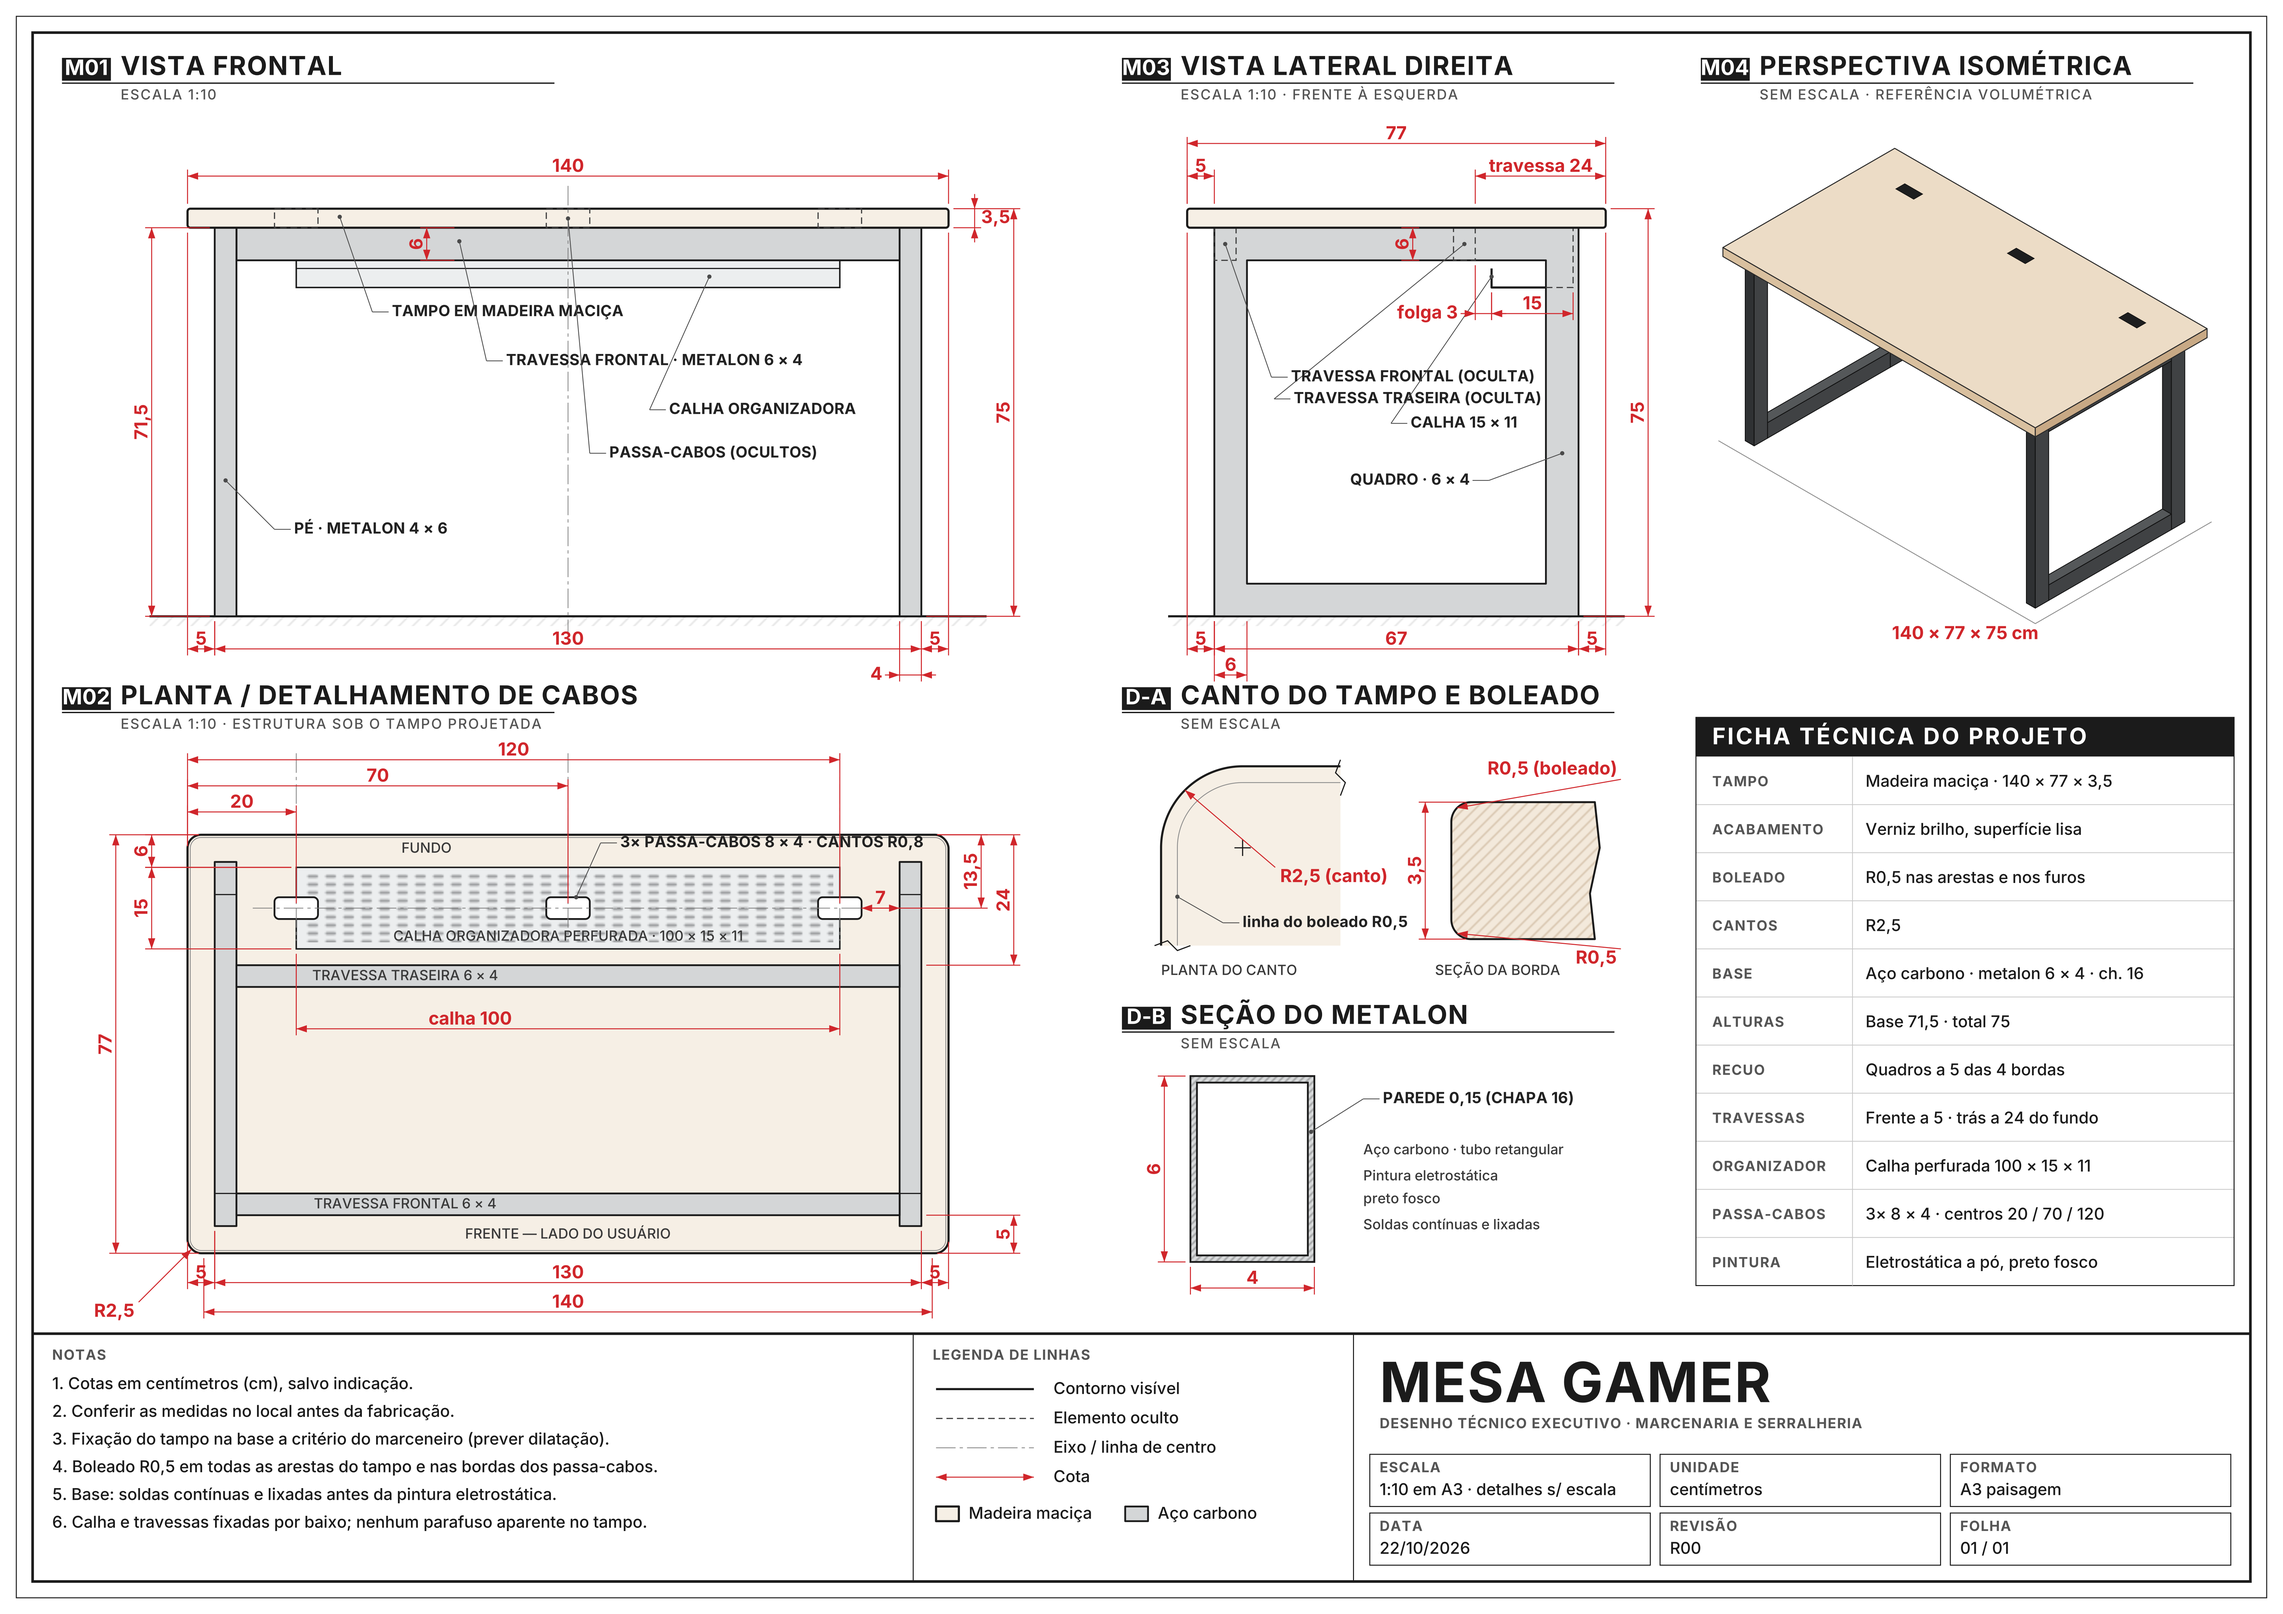
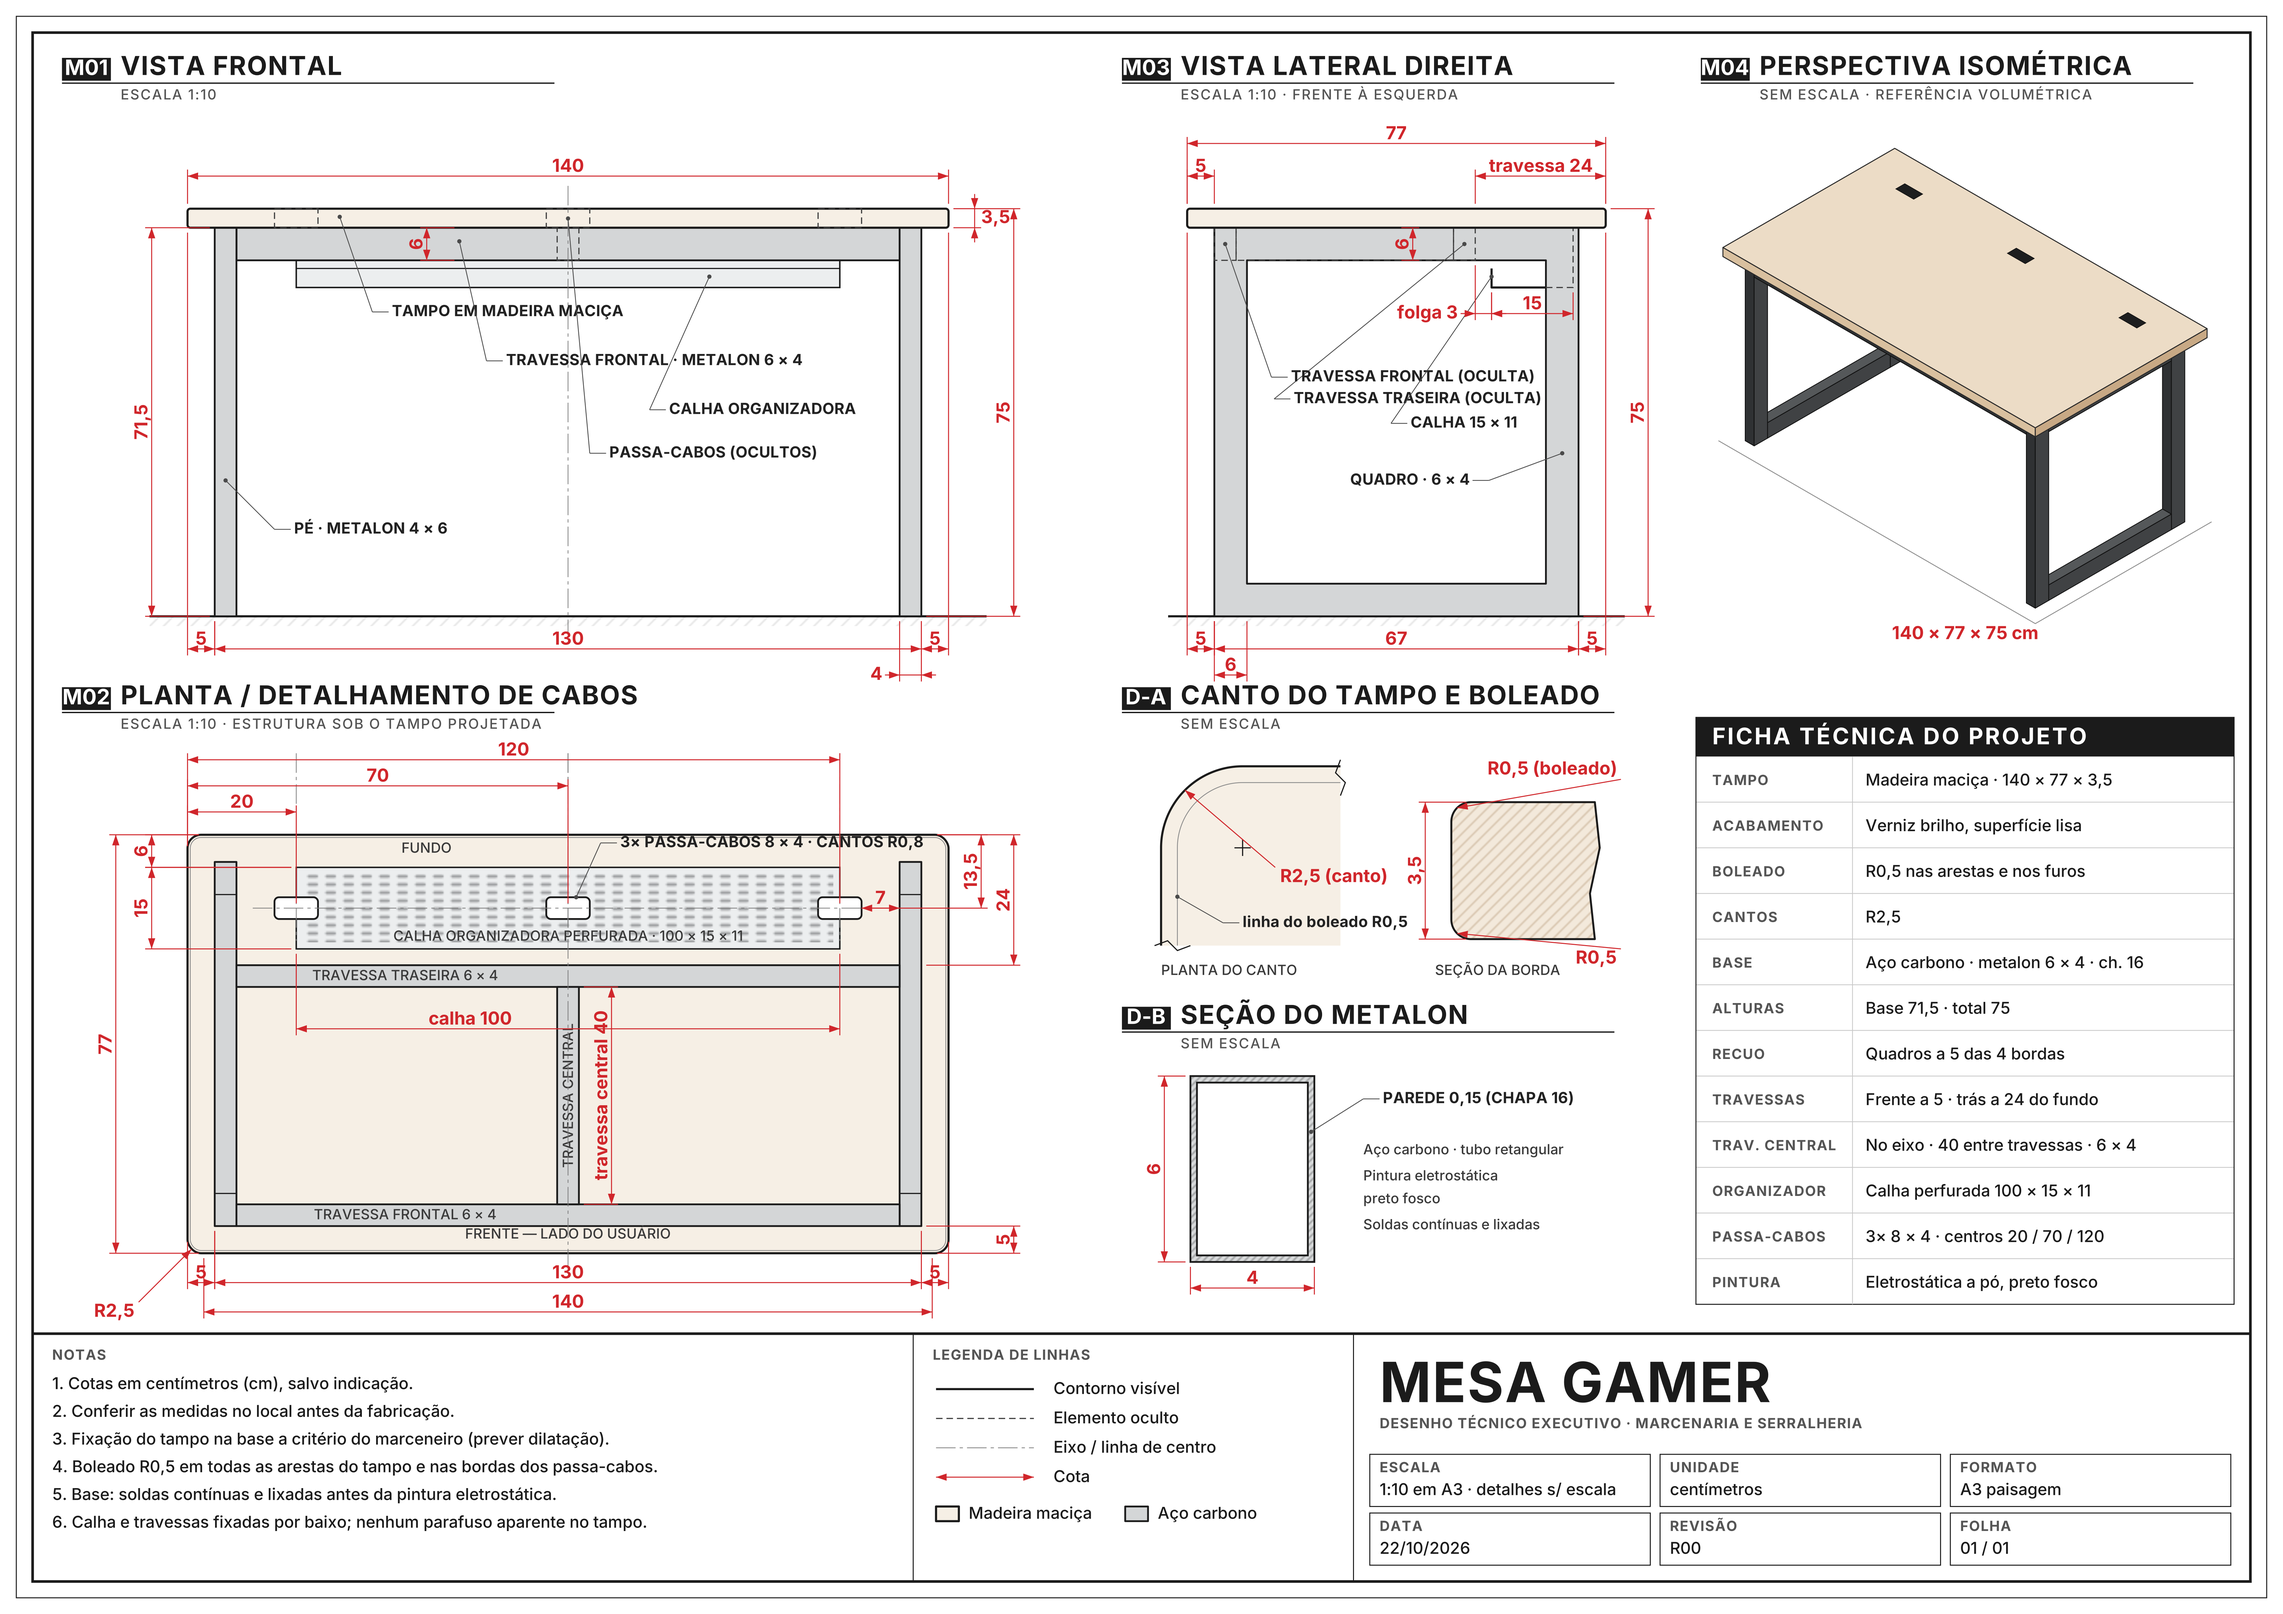
Adiciona travessa central no eixo da mesa
- Travessa transversal de 400 mm em metalon 60x40, ligando as travessas
  frontal e traseira exatamente no centro (700 mm de cada lado)
- Cotas da travessa central no 3D e na prancha (planta, frontal, lateral,
  isométrica e ficha técnica)
- Abas do meio passam para as laterais da travessa central (total 10)
- Corrige a posição da travessa frontal desenhada na planta

Claude-Session: https://claude.ai/code/session_01YJ4UWfBgaHAU3627i1rmiG

Changed region(s): [[0.7491, 0.4687, 0.9364, 0.8123], [0.0936, 0.6249, 0.4058, 0.7811]]

diff --git a/index.html b/index.html
@@ -466,6 +466,10 @@ body.svg-mode #stage,body.svg-mode #labels,body.svg-mode .card,body.svg-mode .hi
     const railsZ = P.railMode===2 ? [baseW/2-B/2, rearEdge+P.rearSetback+B/2] : [0];
     railsZ.forEach(z=>{ const lg=box(longLen,A,B,steelMat); lg.position.set(0,yRail,z*MM); dyn.add(lg); });
 
+    // Travessa central: transversal, no eixo da mesa (x = 0), ligando a travessa frontal à traseira
+    const cz0=rearEdge+P.rearSetback+B, cz1=baseW/2-B;          // face da frente da traseira → face de trás da frontal
+    const cross=box(B,A,cz1-cz0,steelMat); cross.position.set(0,yRail,(cz0+cz1)/2*MM); dyn.add(cross);
+
     // Abas superiores de fixação: chapas soldadas na face interna das travessas, rentes ao topo da base,
     // com furo oblongo no sentido da largura do tampo (Z) para a madeira poder trabalhar.
     const fx=baseL/2-B;                                   // face interna dos quadros
@@ -473,8 +477,9 @@ body.svg-mode #stage,body.svg-mode #labels,body.svg-mode .card,body.svg-mode .hi
     railsZ.forEach(z=>{
       const dir = z>0 ? -1 : 1;                           // aba aponta para o centro da mesa
       const face = z + dir*B/2;
-      [-450,0,450].forEach(x=>dyn.add(tabMesh(x, face+dir*P.tabW/2, P.tabL, P.tabW)));
+      [-450,450].forEach(x=>dyn.add(tabMesh(x, face+dir*P.tabW/2, P.tabL, P.tabW)));
     });
+    [-1,1].forEach(sx=>dyn.add(tabMesh(sx*(B/2+P.tabW/2), (cz0+cz1)/2, P.tabW, P.tabL)));   // 2 abas na travessa central
 
     // Organizador de cabos
     if(P.tray){
@@ -567,6 +572,10 @@ body.svg-mode #stage,body.svg-mode #labels,body.svg-mode .card,body.svg-mode .hi
     const xd=(P.tray?P.trayL/2+90:300)*MM;
     if(P.railMode===2) dimLine(V(xd,yb-0.002,-W/2),V(xd,yb-0.002,(rearEdge+P.rearSetback)*MM),V(1,0,0),()=>'travessa '+nu(P.rearSetback));
     else dimLine(V(xd,yb-0.002,-W/2),V(xd,yb-0.002,-B/2*MM),V(1,0,0),()=>'travessa '+nu(P.topW/2-B/2));
+    // travessa central: comprimento e posição no eixo
+    { const c0=rearEdge+P.rearSetback+B, c1=baseW/2-B, xc=0.06;
+      dimLine(V(xc,yb-0.002,c0*MM),V(xc,yb-0.002,c1*MM),V(1,0,0),()=>'travessa central '+nu(c1-c0));
+      dimLine(V(-L/2,yb-0.002,(c0+c1)/2*MM),V(0,yb-0.002,(c0+c1)/2*MM),V(0,0,1),()=>'eixo '+nu(P.topL/2)); }
     if(P.tray){
       const zb=(rearEdge+P.trayGap)*MM, yBot=(P.baseH-P.trayH)*MM;
       dimLine(V(-P.trayL/2*MM,yBot-0.03,zb),V(P.trayL/2*MM,yBot-0.03,zb),V(0,1,0),()=>'organizador '+nu(P.trayL));
@@ -625,6 +634,7 @@ body.svg-mode #stage,body.svg-mode #labels,body.svg-mode .card,body.svg-mode .hi
       ['Acabamento da base', 'eletrostática preto fosco'],
       ['Altura total', n(P.baseH)+' + '+n(P.topT)+' = '+n(P.baseH+P.topT)],
       P.railMode===2 ? ['Travessas','frente '+n(P.inset)+' · trás '+n(P.rearSetback)] : ['Travessa','única, central'],
+      ['Travessa central', 'no eixo · '+n((P.topW/2-P.inset-B)-(-P.topW/2+P.rearSetback+B))+' × '+n(P.tubeA)+' × '+n(P.tubeB)],
       ['Organizador (C × P × A)', P.tray ? n(P.trayL)+' × '+n(P.trayD)+' × '+n(P.trayH) : 'não'],
     ];
     if(P.slots){
@@ -778,6 +788,7 @@ function buildSheet(unit){
   const BL=1300, BW=670, FX=BL/2-B;         // FX = face interna dos quadros (610)
   const legZ=BW/2-A;                        // 275: face interna dos pés no sentido Z
   const RF=BW/2-B, RB=-W/2+240;             // travessa frontal: z 295..335 · traseira: z -145..-105
+  const CZ0=RB+B, CZ1=RF, CL=CZ1-CZ0;        // travessa central (eixo x = 0): z -105..295, 400 mm
   const TR={x:500, z0:-325, z1:-175, y0:BH-110, lip:35};
   const SLX=[-500,0,500], SLZ=-W/2+135, SW=80, SH=40, SR=8;
   const tabsFrame=[], tabsRail=[];
@@ -856,6 +867,7 @@ function buildSheet(unit){
   // travessa frontal e pés
   rect(fx(-FX),fy(BH),2*FX*S,A*S,'steel');
   rect(fx(-BL/2),fy(BH),B*S,BH*S,'steel'); rect(fx(FX),fy(BH),B*S,BH*S,'steel');
+  rect(fx(-B/2),fy(BH),B*S,A*S,'hid');                                   // travessa central (oculta)
   // abas (ocultas sob o tampo, atrás da travessa)
   // tampo + passa-cabos ocultos
   rect(fx(-L/2),fy(H),L*S,T*S,'wood',5*S);
@@ -891,6 +903,7 @@ function buildSheet(unit){
   // ocultos: travessas longitudinais (seções) e calha atrás do pé traseiro
   rect(sx(BW/2),fy(BH),B*S,A*S,'hid');
   rect(sx(RB+B),fy(BH),B*S,A*S,'hid');
+  rect(sx(CZ1),fy(BH),CL*S,A*S,'hid');                                    // travessa central (oculta)
   path(`M${f(sx(-legZ))} ${f(fy(TR.y0))} L${f(sx(TR.z0))} ${f(fy(TR.y0))} L${f(sx(TR.z0))} ${f(fy(BH))}`,'hid');
   // tampo
   rect(sx(W/2),fy(H),W*S,T*S,'wood',5*S);
@@ -924,9 +937,11 @@ function buildSheet(unit){
     rect(px(x0),pz(-BW/2),B*S,A*S,'thin'); rect(px(x0),pz(BW/2-A),B*S,A*S,'thin');
   });
   // travessas
-  rect(px(-FX),pz(RF-B/2),2*FX*S,B*S,'steel');
+  rect(px(-FX),pz(RF),2*FX*S,B*S,'steel');
   rect(px(-FX),pz(RB),2*FX*S,B*S,'steel');
-  text(px(-300),pz(RF)+2.5,'TRAVESSA FRONTAL '+v(A)+' × '+v(B),'lts','middle');
+  rect(px(-B/2),pz(CZ0),B*S,CL*S,'steel');
+  text(px(0)+3,pz((CZ0+CZ1)/2),'TRAVESSA CENTRAL','lts','middle',-90);
+  text(px(-300),pz(RF+B/2)+2.5,'TRAVESSA FRONTAL '+v(A)+' × '+v(B),'lts','middle');
   text(px(-300),pz(RB+B/2)+2.5,'TRAVESSA TRASEIRA '+v(A)+' × '+v(B),'lts','middle');
   // calha perfurada
   rect(px(-TR.x),pz(TR.z0),2*TR.x*S,(TR.z1-TR.z0)*S,'tray');
@@ -942,6 +957,8 @@ function buildSheet(unit){
     line(px(x),pz(-W/2)-50,px(x),pz(SLZ)+20,'ax');
   });
   line(px(-TR.x-80),pz(SLZ),px(FX+20),pz(SLZ),'ax');
+  line(px(0),pz(-W/2)-50,px(0),pz(W/2)+10,'ax');
+  dimV(px(B/2),pz(CZ0),px(B/2),pz(CZ1),px(80),'travessa central '+v(CL));
   text(px(0),pz(TR.z0)+ (TR.z1-TR.z0)*S/2+20,'CALHA ORGANIZADORA PERFURADA · '+v(1000)+' × '+v(150)+' × '+v(110),'lts','middle');
   text(px(0),pz(W/2)-9,'FRENTE — LADO DO USUÁRIO','lts','middle');
   text(px(-260),pz(-W/2)+11,'FUNDO','lts','middle');
@@ -955,7 +972,7 @@ function buildSheet(unit){
   dimV(px(-TR.x),pz(TR.z0),px(-TR.x),pz(TR.z1),px(-L/2)-22,v(150));
   dimV(px(L/2-30),pz(-W/2),px(540),pz(SLZ),px(L/2)+20,v(135));
   dimV(px(L/2-30),pz(-W/2),px(FX+B),pz(RB),px(L/2)+40,v(240));
-  dimV(px(FX+B),pz(RF+B/2),px(L/2-30),pz(W/2),px(L/2)+40,v(IN));
+  dimV(px(FX+B),pz(RF+B),px(L/2-30),pz(W/2),px(L/2)+40,v(IN));
   dimH(px(-TR.x),pz(TR.z1),px(TR.x),pz(TR.z1),pz(-28),'calha '+v(1000),{dx:-60});
   dimH(px(SLX[2]+SW/2),null,px(FX),null,pz(SLZ),v(70));
   dimH(px(-L/2),pz(W/2-30),px(-BL/2),pz(BW/2),P1+18,v(IN));
@@ -1003,7 +1020,7 @@ function buildSheet(unit){
 
   // ================= FICHA TÉCNICA =================
   {
-    const x0=1040, y0=440, w=330, hh=24, rh=29.5;
+    const x0=1040, y0=440, w=330, hh=24, rh=28;
     rect(x0,y0,w,hh,'th'); text(x0+10,y0+16.5,'FICHA TÉCNICA DO PROJETO','tht');
     const rows=[
       ['TAMPO','Madeira maciça · '+v(L)+' × '+v(W)+' × '+v(T)],
@@ -1014,6 +1031,7 @@ function buildSheet(unit){
       ['ALTURAS','Base '+v(BH)+' · total '+v(H)],
       ['RECUO','Quadros a '+v(IN)+' das 4 bordas'],
       ['TRAVESSAS','Frente a '+v(IN)+' · trás a '+v(240)+' do fundo'],
+      ['TRAV. CENTRAL','No eixo · '+v(CL)+' entre travessas · '+v(A)+' × '+v(B)],
       ['ORGANIZADOR','Calha perfurada '+v(1000)+' × '+v(150)+' × '+v(110)],
       ['PASSA-CABOS','3× '+v(SW)+' × '+v(SH)+' · centros '+v(200)+' / '+v(700)+' / '+v(1200)],
       ['PINTURA','Eletrostática a pó, preto fosco'],
@@ -1039,7 +1057,7 @@ function buildSheet(unit){
       add(a,b,0,BH,legZ,BW/2,'S'); add(a,b,0,BH,-BW/2,-legZ,'S');
       add(a,b,BH-A,BH,-legZ,legZ,'S'); add(a,b,0,A,-legZ,legZ,'S');
     });
-    add(-FX,FX,BH-A,BH,RF-B/2,RF+B/2,'S'); add(-FX,FX,BH-A,BH,RB,RB+B,'S');
+    add(-FX,FX,BH-A,BH,RF,RF+B,'S'); add(-FX,FX,BH-A,BH,RB,RB+B,'S'); add(-B/2,B/2,BH-A,BH,CZ0,CZ1,'S');
     add(-TR.x,TR.x,TR.y0,BH,TR.z0,TR.z1,'S');
     steel.sort((a,b)=>((a.x0+a.x1)/2+(a.z0+a.z1)/2+(a.y0+a.y1)/4)-((b.x0+b.x1)/2+(b.z0+b.z1)/2+(b.y0+b.y1)/4));
     const all=[...steel,{x0:-L/2,x1:L/2,y0:BH,y1:H,z0:-W/2,z1:W/2,m:'W'}];

diff --git a/README.md b/README.md
@@ -15,6 +15,7 @@ Para usar, abra o `index.html` no navegador. Não há build nem dependências lo
 | Base | quadro em aço carbono, metalon 60 × 40 mm, chapa 16 (1,5 mm), 715 mm de altura |
 | Abas de fixação | 10 abas superiores 60 × 40 × 3 mm, furo oblongo 18 × 7 mm no sentido da largura do tampo |
 | Travessas sob o tampo | frente a 50 mm da borda · trás a 240 mm do fundo |
+| Travessa central | transversal no eixo (700 mm de cada lado), 400 mm entre as travessas, metalon 60 × 40 mm |
 | Organizador de cabos | 1000 × 150 × 110 mm, chapa perfurada, a 60 mm do fundo |
 | Passa-cabos no tampo | 3 × (80 × 40 mm), centros a 200 · 700 · 1200 mm da borda esquerda e 135 mm do fundo |
 | Boleado das arestas e dos furos | raio 5 mm |
